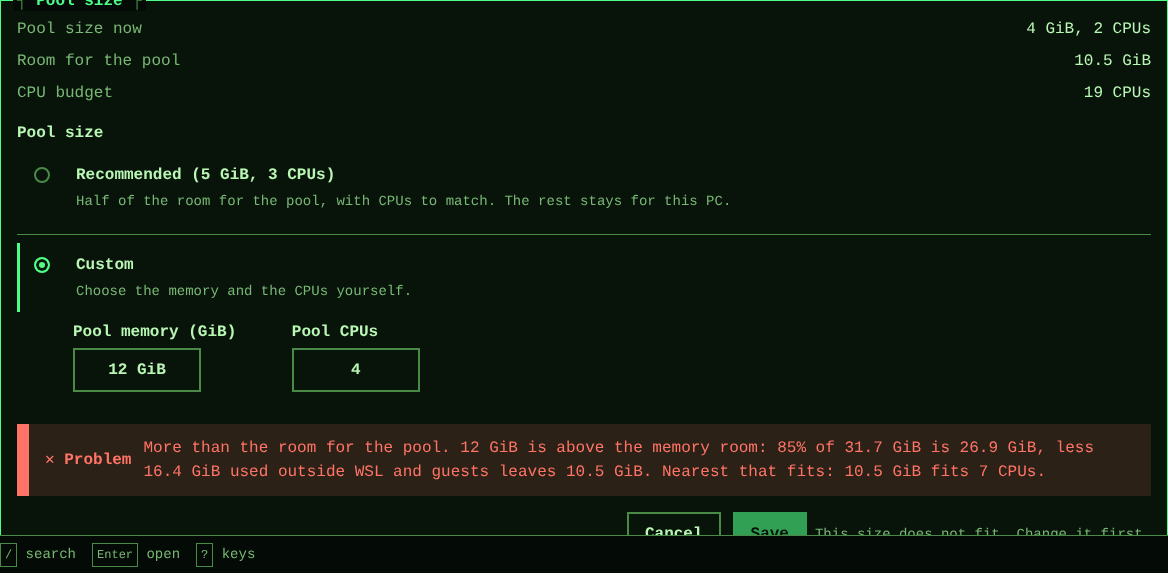
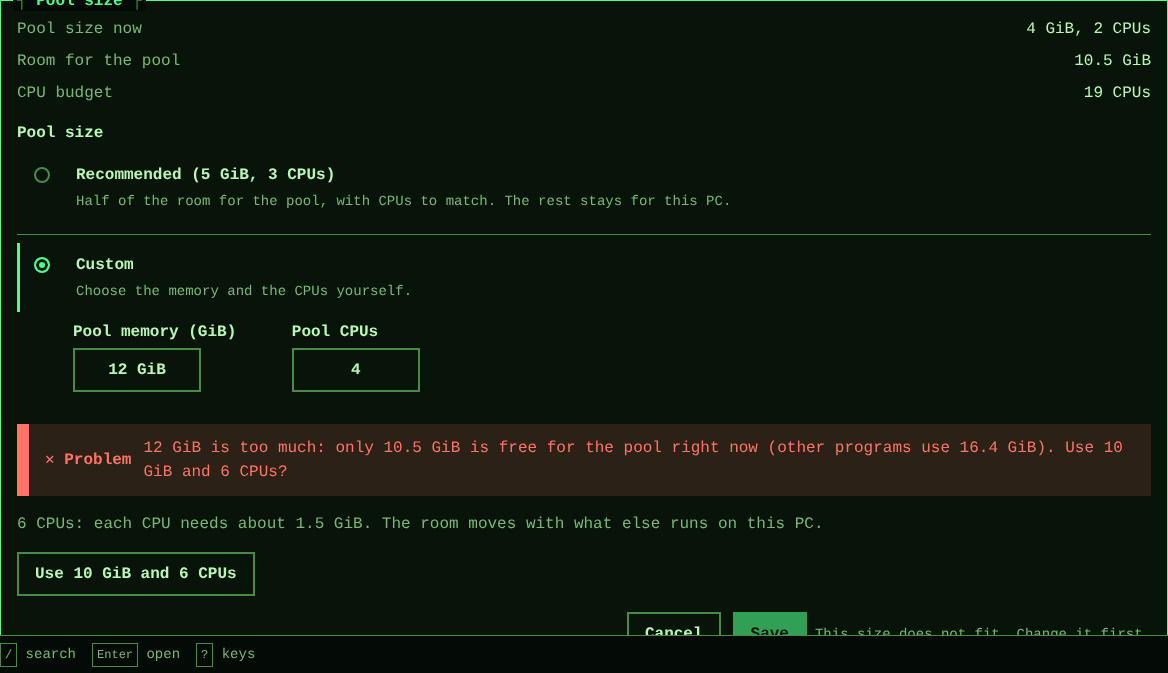
LOOK22: too-big words in all options, editing-error shots re-shot
Docs: none, review only (design-system next-version content and CHANGES C87 added)

Changed region(s): [[0.0, 0.3857, 1.0, 1.0], [0.0, 0.0, 0.6164, 0.356], [0.863, 0.0297, 0.9863, 0.178]]

diff --git a/docs/review/LOOK22/harness/options/common.tsx b/docs/review/LOOK22/harness/options/common.tsx
@@ -1,5 +1,5 @@
 // Shared by the three options of LOOK22: the live check, the Recommended size and the save call.
-import { Message, type Tone } from '@crsp/ui';
+import { Button, Cluster, Message, Stack, Text, type Tone } from '@crsp/ui';
 import { useEffect, useRef, useState } from 'react';
 import { unwrap, useClient, type Schemas } from '@app/api/api';
 
@@ -54,6 +54,8 @@ export interface Live {
   saveable: boolean;
   shrink: boolean;
   check: Check | undefined;
+  /** Memory is over the room: the nearest size that fits, offered as one button. */
+  fit?: { mem: number; cpus: number; label: string; note: string };
 }
 
 /** The Review check, run live (250 ms after the last edit) for the size being edited. */
@@ -78,16 +80,30 @@ export function useLiveCheck(m: Machine, mem: number, cpus: number, on: boolean)
     }, 250);
     return () => clearTimeout(t);
   }, [m.id, mem, cpus, on]);
-  return describe(check, busy, mem);
+  return describe(check, busy, mem, cpus);
 }
 
-function describe(c: Check | undefined, busy: boolean, mem: number): Live {
+function describe(c: Check | undefined, busy: boolean, mem: number, cpus: number): Live {
   const none = { saveable: false, shrink: false, check: c };
   if (busy) return { ...none, tone: 'busy', text: 'Checking this size against the budget.' };
   if (!c) return { ...none, tone: 'needs-you', text: 'The size cannot be checked now.' };
   if (!c.known) return { ...none, tone: 'needs-you', text: `The size cannot be checked yet. ${c.why ?? ''}` };
   if (c.needs_shrink_confirm)
     return { tone: 'needs-you', text: 'This lowers the pool size. Jobs that need more than the new size wait or fail to start.', saveable: true, shrink: true, check: c };
+  if (!c.ok && c.short === 'memory' && c.room_gib !== undefined && c.cpu_budget !== undefined) {
+    // The controller's own figures: room = budget less used outside and guests; 1.5 GiB per CPU (poolsize.GiBPerCPU).
+    const used = (c.memory_budget_gib ?? 0) - c.room_gib;
+    const fitMem = Math.max(MIN_GIB, Math.floor(c.room_gib));
+    const fitCpus = Math.max(MIN_CPUS, Math.min(Math.floor(fitMem / 1.5), c.cpu_budget));
+    const label = `Use ${gib(fitMem)} and ${cpuWord(fitCpus)}`;
+    const note = fitCpus !== cpus ? `${cpuWord(fitCpus)}: each CPU needs about 1.5 GiB. ` : '';
+    return {
+      ...none,
+      tone: 'problem',
+      text: `${gib(mem)} is too much: only ${gib(c.room_gib)} is free for the pool right now (other programs use ${gib(used)}). ${label}?`,
+      fit: { mem: fitMem, cpus: fitCpus, label, note: `${note}The room moves with what else runs on this PC.` },
+    };
+  }
   if (!c.ok) {
     const near = c.nearest.length ? ` Nearest that fits: ${c.nearest.join('; ')}.` : '';
     return { ...none, tone: 'problem', text: `More than the room for the pool. ${(c.reason ?? '').replace(/\.?$/, '.')}${near}` };
@@ -98,13 +114,25 @@ function describe(c: Check | undefined, busy: boolean, mem: number): Live {
   return { tone: 'done', text: `Fits the budget. Leaves ${gib(left)} for this PC.`, saveable: true, shrink: false, check: c };
 }
 
-export function LiveLine({ live }: { live: Live }) {
+export function LiveLine({ live, onFit }: { live: Live; onFit?: (mem: number, cpus: number) => void }) {
   if (live.tone === 'busy')
     return (
       <p role="status" className="ds-text" data-tone="muted">
         {live.text}
       </p>
     );
+  if (live.fit && onFit) {
+    const f = live.fit;
+    return (
+      <Stack>
+        <Message tone={live.tone}>{live.text}</Message>
+        <Text tone="muted">{f.note}</Text>
+        <Cluster>
+          <Button onPress={() => onFit(f.mem, f.cpus)}>{f.label}</Button>
+        </Cluster>
+      </Stack>
+    );
+  }
   return <Message tone={live.tone}>{live.text}</Message>;
 }
 

diff --git a/docs/review/LOOK22/harness/options/A.tsx b/docs/review/LOOK22/harness/options/A.tsx
@@ -28,7 +28,7 @@ export function PoolSizeWizard({ m, onChanged }: { m: Machine; onChanged: () => 
       <SizeChoice room={room} mode={mode} setMode={setMode} mem={mem} cpus={cpus}
         setMem={(n) => { setMem(n); setMode('custom'); save.clear(); }}
         setCpus={(n) => { setCpus(n); setMode('custom'); save.clear(); }} />
-      <LiveLine live={live} />
+      <LiveLine live={live} onFit={(m2, c2) => { setMem(m2); setCpus(c2); setMode('custom'); save.clear(); }} />
       {live.shrink && !same ? <CheckRow label="Yes, lower the pool size" checked={yes} onChange={setYes} /> : null}
       {save.saved ? <Message tone="done">{save.saved}</Message> : null}
       {save.error ? <Message tone="problem">Could not save. {save.error} Try again.</Message> : null}

diff --git a/docs/review/LOOK22/harness/options/C.tsx b/docs/review/LOOK22/harness/options/C.tsx
@@ -42,7 +42,7 @@ export function PoolSizeWizard({ m, onChanged }: { m: Machine; onChanged: () => 
       {summary}
       <SizeChoice room={room} mode={mode} setMode={setMode} mem={mem} cpus={cpus}
         setMem={(n) => { setMem(n); setMode('custom'); }} setCpus={(n) => { setCpus(n); setMode('custom'); }} />
-      <LiveLine live={live} />
+      <LiveLine live={live} onFit={(m2, c2) => { setMem(m2); setCpus(c2); setMode('custom'); }} />
       {live.shrink && !same ? <CheckRow label="Yes, lower the pool size" checked={yes} onChange={setYes} /> : null}
       {save.error ? <Message tone="problem">Could not save. {save.error} Try again.</Message> : null}
       <FormActions>

diff --git a/docs/review/LOOK22/harness/options/B.tsx b/docs/review/LOOK22/harness/options/B.tsx
@@ -77,7 +77,7 @@ export function PoolSizeWizard({ m, onChanged }: { m: Machine; onChanged: () => 
           </Button>
         </Cluster>
       ) : null}
-      <LiveLine live={live} />
+      <LiveLine live={live} onFit={(m2, c2) => { setMem(m2); setCpus(c2); save.clear(); }} />
       {live.shrink && !same ? <CheckRow label="Yes, lower the pool size" checked={yes} onChange={setYes} /> : null}
       {save.saved ? <Message tone="done">{save.saved}</Message> : null}
       {save.error ? <Message tone="problem">Could not save. {save.error} Try again.</Message> : null}

diff --git a/docs/review/LOOK22/REPORT.md b/docs/review/LOOK22/REPORT.md
@@ -39,3 +39,11 @@ Result "Recommended (5 GiB, 3 CPUs)". Note: the owner's example "8 GiB, 8 CPUs" 
 
 ## Docs
 Docs: none, review only (screenshots, harness and this report; no behaviour change).
+
+## Update 2026-11-17: "too big" wording (owner request), all options
+- Memory over the room now reads: "{requested} is too much: only {room} is free for the pool right now (other programs use {used}). Use {mem} and {cpus}?", a button "Use {mem} and {cpus}" that sets both fields (no save), a note "The room moves with what else runs on this PC.", and "{cpus}: each CPU needs about 1.5 GiB." when the CPUs change with the memory (controller rule `GiBPerCPU` in `internal/poolsize/budget.go`).
+- Values come from the live check: requested, `room_gib`, used = `memory_budget_gib - room_gib` (outside WSL plus guests, as the controller's reason counts it), fit = room rounded down to a whole GiB, CPUs = fit / 1.5 capped by the CPU budget. Other refusals (floor, CPU budget, 1.5 ratio) keep the controller's reason.
+- Shots: figures stay the earlier ones (room 10.5, used 16.4), so the 12 GiB shot reads "only 10.5 GiB ... use 16.4 GiB ... Use 10 GiB and 6 CPUs?". Owner's 9 GiB / 8.5 / 18.4 / 5 CPUs example gives the same shape with those numbers. Re-shot: A, B, C `editing-error` at desktop and phone (`ONLY=editing-error` in `shoot.cjs`).
+- Words are in `docs/design-system/next-version/content.md` (Pool size words) with CHANGES C87. Committed app code is untouched (`PoolSize.tsx` still has the old text; options live in the harness only).
+- `golangci-lint` is installed in this sandbox. `core.hooksPath` is set by the repo's own `prepare` script, not by me.
+Docs: none, review only.

diff --git a/docs/design-system/next-version/CHANGES.md b/docs/design-system/next-version/CHANGES.md
@@ -89,3 +89,4 @@ One entry per change, `- C<n>: what changed (file; source)`.
 - C84: inactive rows are grey, not muted green: new token `--ds-color-text-inactive` in all six themes (4.5:1 on page and surface), Table prop `muted` renamed `inactive` (`data-inactive`; text and links grey, links underlined), new shared part `Tag` and the words `inactive type` and `listed in grey`. New rule UX-70 (ux-rules.md, tokens.md, components.md 15 and 17, content.md; owner decision LOOK D22, LOOK13)
 - C85: the one-choice list takes an option as name, value and description on their own lines, the radio on the first line, a divider between options, a hover and a selected bar, and an own field that shows only when the option is chosen; the address dialog and the Role, Notification kind and Access choices use it (components.md 13; owner decision LOOK14)
 - C86: account menu words added: the GitHub sign-in line, its ended state, the action Sign in with GitHub again with its busy word, the dot label, and the Users and roles intro line; the user menu is one shared part with an amber dot (content.md; web-console R5.95, LOOK15)
+- C87: pool size "too big" words: "{requested} is too much: only {room} is free for the pool right now (other programs use {used}). Use {memory} and {cpus}?" with a button that applies the nearest fit, a room note, and the CPU reason "each CPU needs about 1.5 GiB" when CPUs shrink with the memory; replaces the sum sentence and the nearest-sizes line for a memory refusal (content.md Pool size words; owner decision, LOOK22)

diff --git a/docs/design-system/next-version/content.md b/docs/design-system/next-version/content.md
@@ -366,8 +366,12 @@ The words of the Pool size wizard on a machine's page (machines R5.58). The wiza
 | Mistakes | The pool needs at least {n} GiB. The pool needs at least {n} CPUs. This is the size that is set now. Change it to review. |
 | Review line | The pool of {machine} changes from {size} to {size}. |
 | Fits | This size fits the budget of the machine. |
-| Does not fit | This size does not fit the budget. {reason} |
+| Does not fit | This size does not fit the budget. {reason} (memory over the room: see Too big) |
 | Nearest | The nearest sizes that fit: |
+| Too big (memory over the room) | {requested} is too much: only {room} is free for the pool right now (other programs use {used}). Use {fit memory} and {fit cpus}? |
+| Too big, button | Use {fit memory} and {fit cpus} (applies both sizes to the fields; it does not save) |
+| Too big, CPU reason | {fit cpus}: each CPU needs about 1.5 GiB. (shown when the CPUs change with the memory) |
+| Too big, room note | The room moves with what else runs on this PC. |
 | Cannot check | The size cannot be checked yet. {why} Try again when the agent has reported. |
 | Lower size | This lowers the pool size. Jobs that need more than the new size wait or fail to start. |
 | The tick | Yes, lower the pool size |
